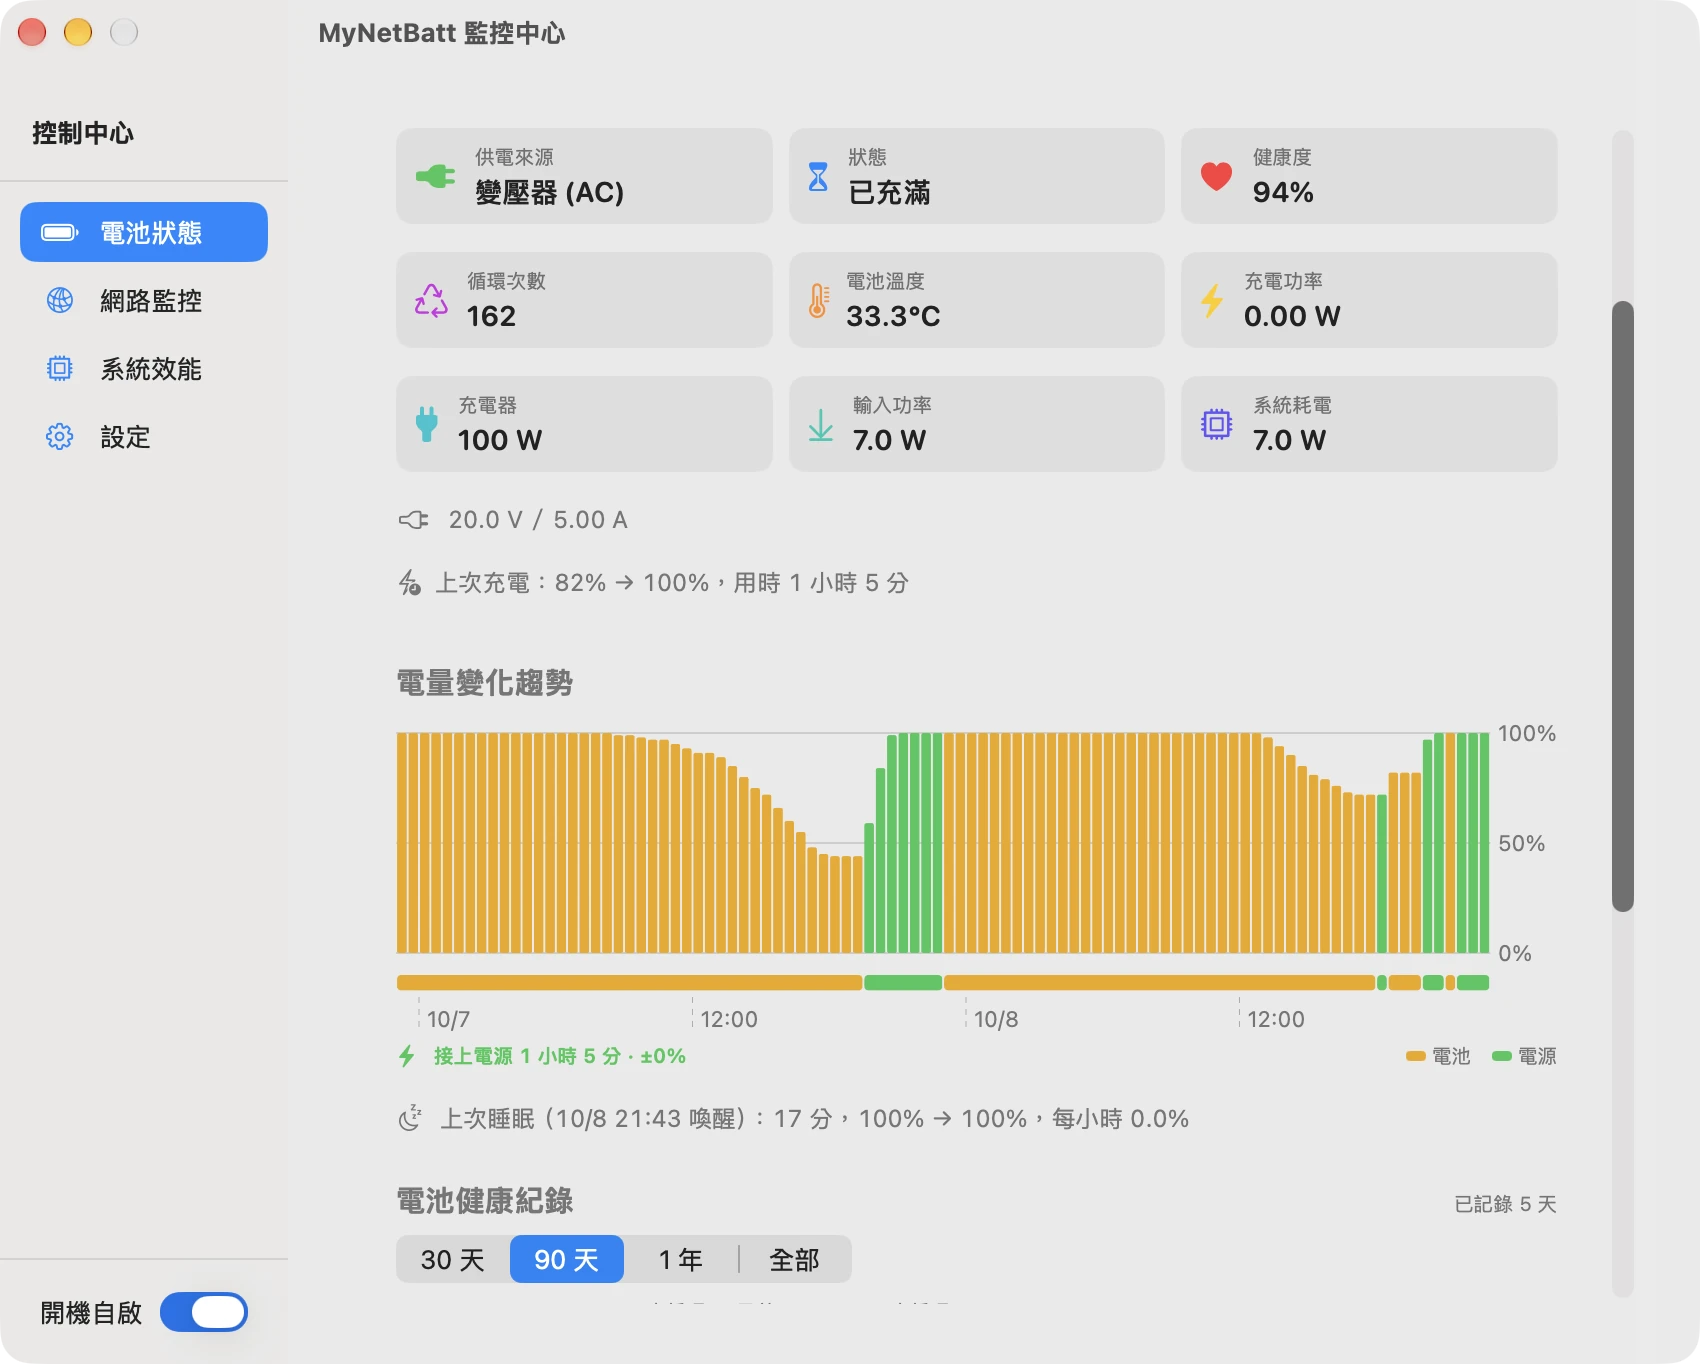
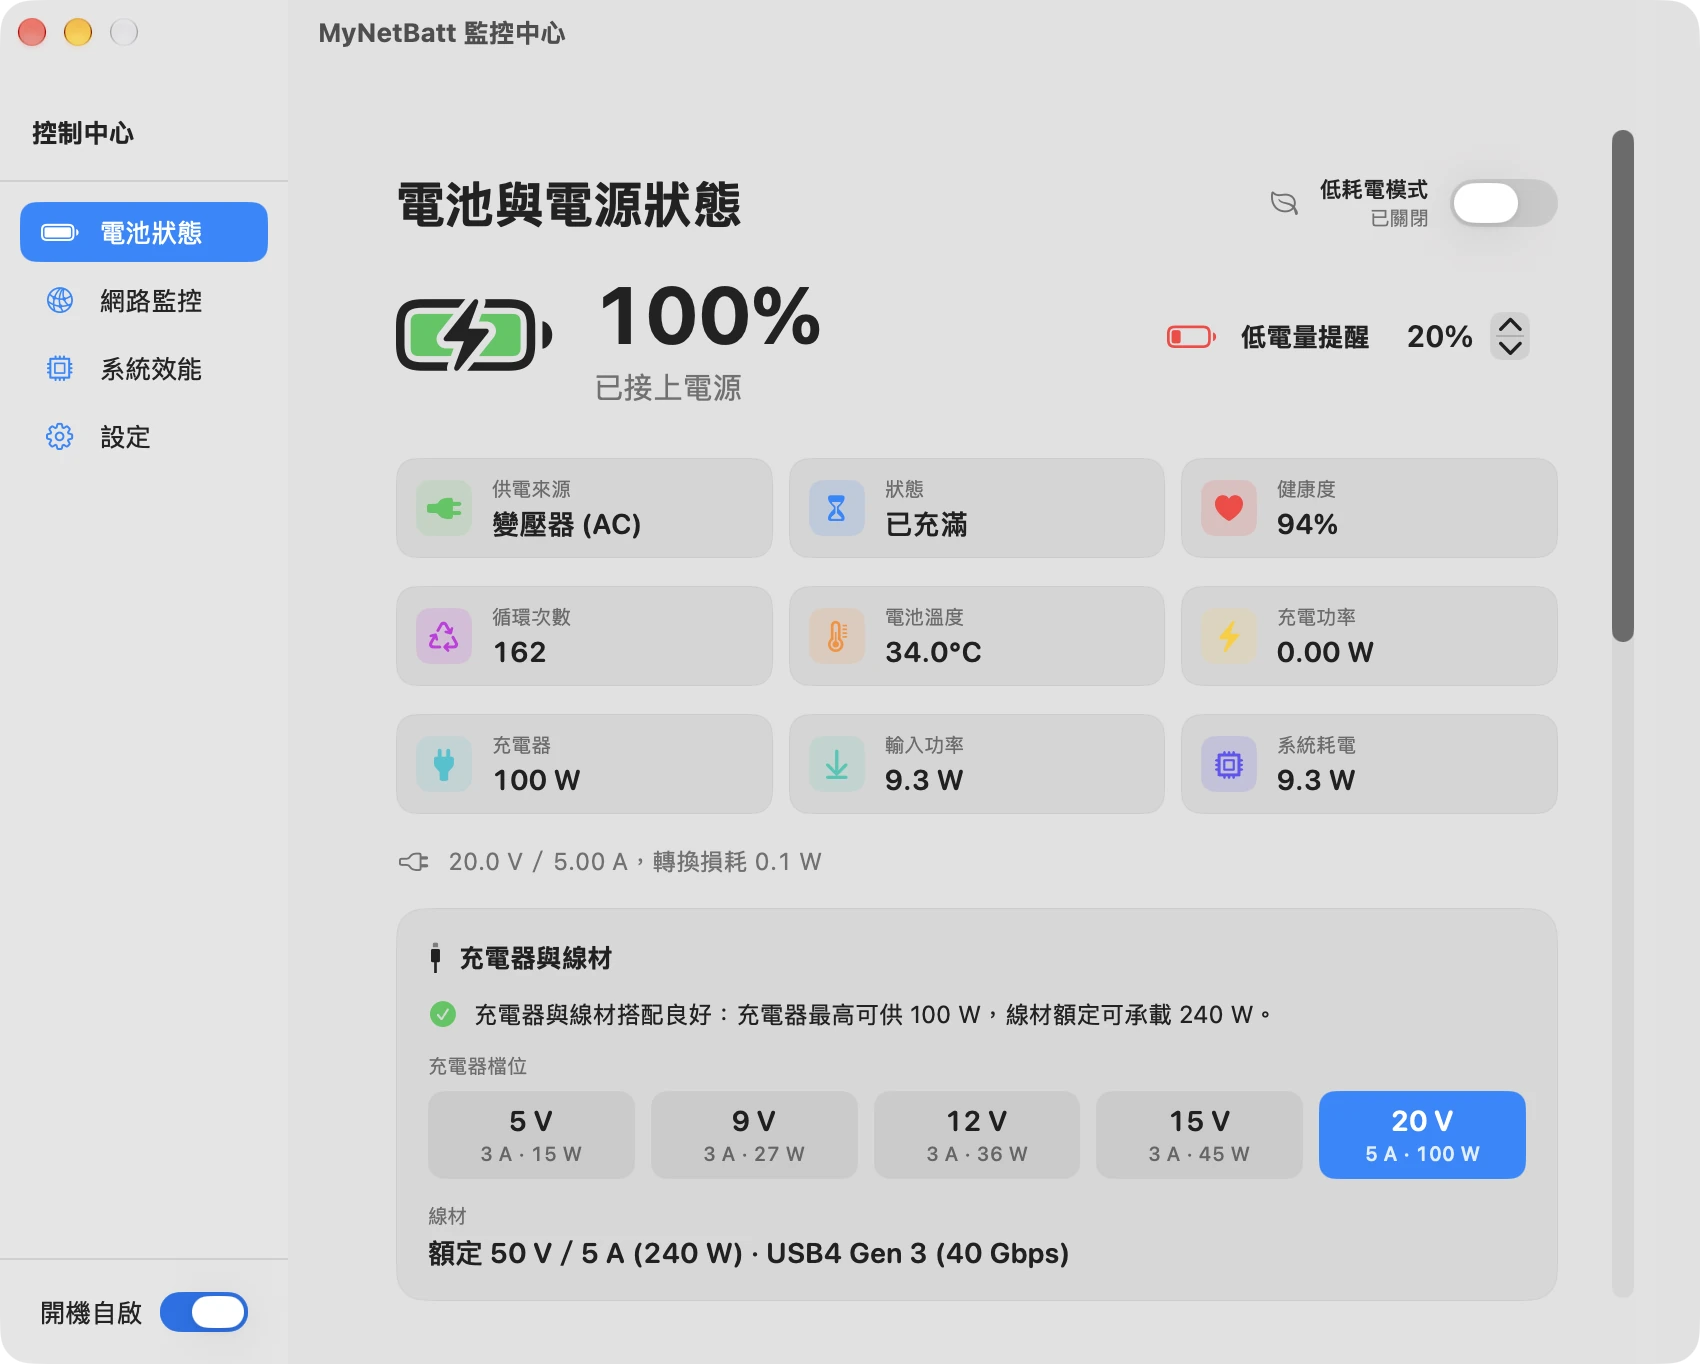
Release MyNetBatt 4.0

diff --git a/README.en.md b/README.en.md
@@ -10,7 +10,7 @@
 
 MyNetBatt is a native macOS menu bar system monitor that brings battery, network, and system performance information together in a clean SwiftUI interface.
 
-> Current version: 3.9.1 · Interface language: Traditional Chinese
+> Current version: 4.0 · Interface language: Traditional Chinese
 
 For release highlights and fixes, see the [changelog](CHANGELOG.en.md) or [GitHub Releases](https://github.com/stone5202/MyNetBatt/releases). The changelog is also available in [Traditional Chinese](CHANGELOG.md).
 
@@ -39,7 +39,7 @@ For release highlights and fixes, see the [changelog](CHANGELOG.en.md) or [GitHu
 </p>
 
 <p align="center">
-  <img src="docs/screenshots/monitor.webp" width="80%" alt="MyNetBatt monitor window battery tab with power supply details, the 48-hour battery chart and the sleep drain record">
+  <img src="docs/screenshots/monitor.webp" width="80%" alt="MyNetBatt monitor window battery tab with power supply details and the charger and cable card">
 </p>
 
 <p align="center">
@@ -66,6 +66,7 @@ MyNetBatt is under active development and maintenance. Its complete source code 
 - Optional CPU, memory, and storage usage items in the menu bar
 - Battery level, charging state, health, cycle count, temperature, power, and charge duration; the 48-hour chart is coloured by power source and marks charging and on-battery periods
 - While plugged in: adapter wattage, actual input power, system load, adapter voltage and current, and conversion loss
+- Charger and cable diagnosis: lists the charger's voltage and current profiles and the one in use, reads the cable's e-marker for its power rating and speed, and tells you when the cable is limiting charging
 - Records the duration and battery drain of the most recent sleep on battery
 - Daily log of battery health and cycle count, viewable over 30 days, 90 days, 1 year, or all time with a day-by-day list
 - Notifications for low battery, full charge, high battery temperature, health drop, power surge (naming the app using the most CPU), and high drain during sleep
@@ -78,7 +79,7 @@ MyNetBatt is under active development and maintenance. Its complete source code 
 - Always-on-top float window that can be toggled with a global shortcut, with adjustable background opacity
 - Configurable sections in the network and battery popovers
 - CPU, GPU, memory (including memory pressure), swap, and storage monitoring, with an eject button for external volumes
-- Thunderbolt, USB4, and USB device information
+- Thunderbolt, USB4, and USB device information; what is connected to each USB-C and MagSafe port, and each cable's type, speed, power rating, and manufacturer
 - Theme (auto, light, dark), glass style, and accent color
 - Automatic monitoring refresh after waking from sleep
 - Launch-at-login support

diff --git a/README.md b/README.md
@@ -10,7 +10,7 @@
 
 MyNetBatt 是一款原生 macOS 選單列系統監控工具，將電池、網路與系統效能資訊集中在簡潔的 SwiftUI 介面中。
 
-> 目前版本：3.9.1 · 介面語言：繁體中文
+> 目前版本：4.0 · 介面語言：繁體中文
 
 各版本的功能更新與修正請參閱 [更新紀錄](CHANGELOG.md) 或 [GitHub Releases](https://github.com/stone5202/MyNetBatt/releases)。更新紀錄也提供[英文版本](CHANGELOG.en.md)。
 
@@ -39,7 +39,7 @@ MyNetBatt 是一款原生 macOS 選單列系統監控工具，將電池、網路
 </p>
 
 <p align="center">
-  <img src="docs/screenshots/monitor.webp" width="80%" alt="MyNetBatt monitor window battery tab with power supply details, the 48-hour battery chart and the sleep drain record">
+  <img src="docs/screenshots/monitor.webp" width="80%" alt="MyNetBatt monitor window battery tab with power supply details and the charger and cable card">
 </p>
 
 <p align="center">
@@ -66,6 +66,7 @@ MyNetBatt 目前持續開發與維護中，專案完整原始碼以 MIT License 
 - 可另外在選單列顯示 CPU、記憶體與儲存空間使用率
 - 電池電量、充電狀態、健康度、循環次數、溫度、功率與充電耗時；48 小時電量圖依電源狀態上色，並標出充電／用電區段
 - 接上電源時顯示充電器瓦數、實際輸入功率、系統耗電、充電器電壓電流與轉換損耗
+- 充電器與線材診斷：列出充電器的各組電壓／電流檔位與目前使用的檔位，讀取線材 e‑marker 的額定功率與速度，並指出線材是否限制了充電速度
 - 記錄上一次使用電池睡眠的時間長度與耗電量
 - 每天記錄電池健康度與循環次數，可依 30 天、90 天、1 年或全部檢視趨勢與逐日紀錄
 - 低電量、充滿、電池高溫、健康度下降、耗電暴增（會指出 CPU 用量最高的 App）與睡眠耗電偏高通知
@@ -78,7 +79,7 @@ MyNetBatt 目前持續開發與維護中，專案完整原始碼以 MIT License 
 - 永遠置頂的懸浮視窗，可用全域快捷鍵開關，背景不透明度可調整
 - 可自訂網路與電池小視窗要顯示的區塊
 - CPU、GPU、記憶體（含記憶體壓力）、Swap 與儲存空間監控，可直接退出外接磁碟
-- Thunderbolt、USB4 與 USB 裝置資訊
+- Thunderbolt、USB4 與 USB 裝置資訊；各個 USB‑C／MagSafe 連接埠接了什麼裝置，以及線材的類型、速度、額定功率與製造商
 - 主題（自動／淺色／深色）、玻璃質感與強調色
 - 睡眠喚醒後自動重新整理監控資料
 - 支援登入時自動啟動

diff --git a/CHANGELOG.en.md b/CHANGELOG.en.md
@@ -4,6 +4,22 @@
 
 This document summarizes the major changes in each MyNetBatt release. Versions before 3.0 were uploaded by replacing earlier copies, so their original per-version Git history can no longer be fully recovered. Changes from 1.0 through 2.x are therefore consolidated from the source code that can still be verified, without attributing uncertain details to individual releases.
 
+## [4.0] - 2026-10-08
+
+### New features
+
+- Charger and cable diagnosis: while plugged in, the battery tab of the monitor window has a new "Charger and cable" card that says in one sentence whether the charger or the cable is the bottleneck. When the cable is rated below the charger, it tells you a different cable would charge faster.
+- Charger profiles: lists every voltage and current combination the charger advertises and highlights the one in use.
+- Cable information: reads the voltage and current rating, power capacity, and data speed reported by the cable's e-marker chip. Basic cables without a chip and MagSafe cables do not provide this information.
+- Ports and cables: the system tab of the monitor window has a new card listing what is connected to each USB-C and MagSafe port, and whether each cable is active or passive, along with its speed, power rating, and manufacturer.
+
+### Improvements
+
+- New app icon: it keeps the white plate, green battery, and red line, now at the standard macOS icon size and without the text that was unreadable at small sizes.
+- Interface details: cards use continuous rounded corners with a hairline border; the icons on the battery tab's info cards sit in tinted squares so the text lines up across cards; usage bars throughout the app share one capsule style with a gradient and animate when the value changes.
+- Charts: the network speed, CPU, GPU, and health lines are thicker and smoothed; the battery history and today's usage bars have a gradient.
+- The sidebar of the monitor window highlights rows on hover, and the battery percentage animates when it changes.
+
 ## [3.9.1] - 2026-10-08
 
 ### Fixes

diff --git a/CHANGELOG.md b/CHANGELOG.md
@@ -4,6 +4,22 @@
 
 本文件整理 MyNetBatt 的主要版本變更。3.0 以前的版本曾以覆蓋方式上傳，原始逐版 Git 紀錄已無法完整還原，因此 1.0～2.x 依目前仍可驗證的程式內容合併記錄，避免為個別小版本編造不確定的差異。
 
+## [4.0] - 2026-10-08
+
+### 新功能
+
+- 充電器與線材診斷：接上電源時，監控中心的電池頁新增「充電器與線材」卡片，用一句話說明充電器與線材誰是瓶頸；線材額定功率低於充電器時會提示換線可以充得更快。
+- 充電器檔位：列出充電器宣告的每一組電壓／電流，並標出目前使用的檔位。
+- 線材資訊：讀取線材內 e‑marker 晶片回報的額定電壓電流、可承載功率與資料速度。沒有晶片的基本線材與 MagSafe 線讀不到這些資訊。
+- 連接埠與線材：監控中心的系統效能頁新增一張卡片，列出每個 USB‑C 與 MagSafe 連接埠接了什麼裝置，以及線材是主動式或被動式、速度、額定功率與製造商。
+
+### 調整
+
+- 全新的 App 圖示：沿用白底、綠色電池與紅色折線的構圖，改用 macOS 標準的圖示大小，拿掉縮小後看不清楚的文字。
+- 介面細節：卡片改用連續曲線的圓角並加上細邊線；電池頁資訊卡的圖示放進同色的淺底方塊，各張卡片的文字對齊同一條線；各處的用量條統一成帶漸層的膠囊條，數值改變時平滑過渡。
+- 圖表：網速、CPU、GPU 與健康度的折線加粗並改為平滑曲線；電量趨勢與今日用量的長條加上漸層。
+- 監控中心的側邊欄在滑鼠移過時會顯示淡底；電量數字改變時有轉場效果。
+
 ## [3.9.1] - 2026-10-08
 
 ### 修正
